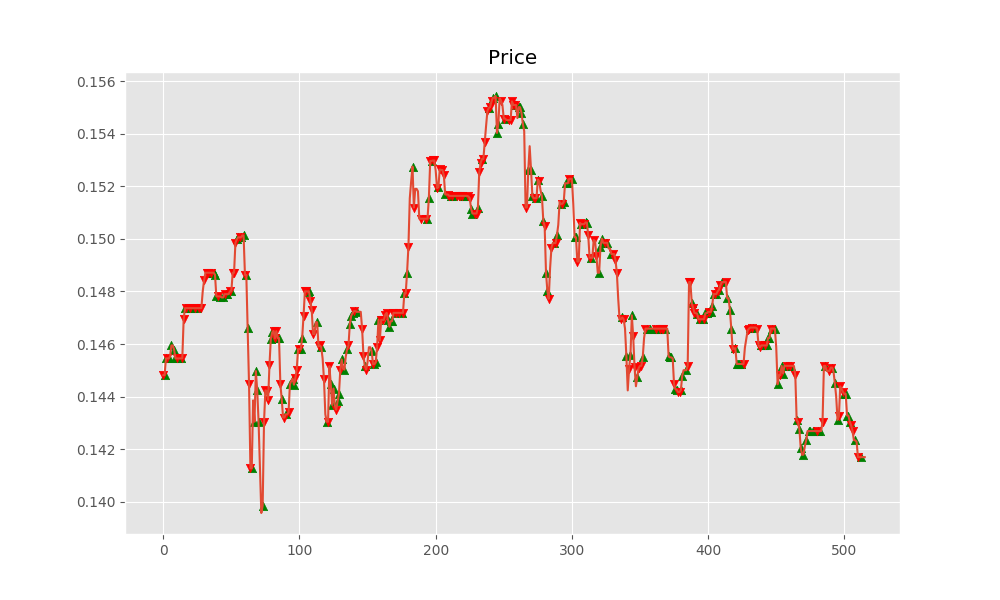
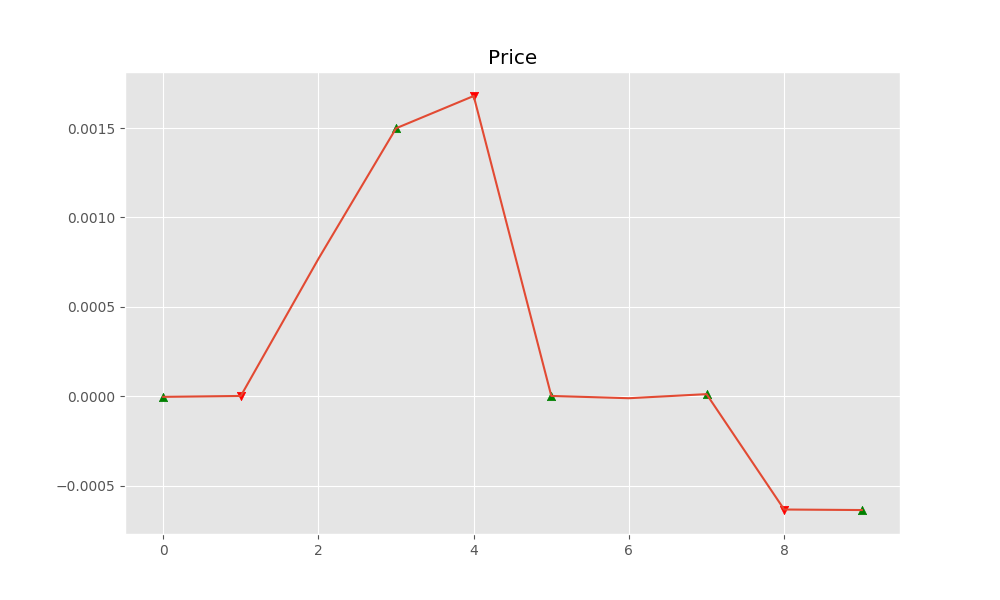
update some prints, add log_returns

diff --git a/trade_gym/envs/trade_env.py b/trade_gym/envs/trade_env.py
@@ -2,12 +2,13 @@ import os
 
 import gym
 import matplotlib.pyplot as plt
-plt.style.use('ggplot')
 import numpy as np
 import pandas as pd
 import tensorflow as tf
 from gym import spaces
+from utils import print_data_info
 
+plt.style.use('ggplot')
 
 class TradeEnv(gym.Env):
     '''Trading environment. 
@@ -48,11 +49,11 @@ class TradeEnv(gym.Env):
         for preprocess in preprocesses:
             if preprocess == 'None':
                 pass
-            elif preprocess == 'MinMax':
+            elif preprocess == 'MinMax':            # normalized 0 to 1, wouldn't recommend
                 self.data = self.preprocess_MinMax()
-            elif preprocess == 'renko':
+            elif preprocess == 'renko':             # blocks
                 self.data = self.preprocess_renko()
-            elif preprocess == 'log_transform':
+            elif preprocess == 'log_transform':     # log return values
                 self.data = self.preprocess_log_transform()
             elif preprocess == 'autoencode':
                 self.data = self.preprocess_autoencode()
@@ -60,13 +61,15 @@ class TradeEnv(gym.Env):
         if self.observation_space is None: # not yet set by preprocessing
             self.observation_space = dict(type = 'float', shape = [self.window, self.data.shape[1]])
             #self.observation_space = spaces.Box(low = 0, high = 10000, shape = (self.window, self.data.shape[1]))
-            print(self.data.head(n=5))
+        
+        # data should be loaded and processed
+        print_data_info(self.data)
 
     def reset(self):
-        self.cash = 1e6 # 1,000,000 to start
+        self.cash   = 1e6 # 1,000,000 to start
         self.equity = 0
-        self.steps = self.window
         self.equity = 0
+        self.steps  = self.window
         self.past_actions = []
 
         return self.get_next_state()
@@ -83,7 +86,11 @@ class TradeEnv(gym.Env):
         return NotImplementedError
 
     def preprocess_log_transform(self):
-        return NotImplementedError
+        for column in self.data.columns:
+            self.data[column]    = np.log(self.data[column]/self.data[column].shift(1))
+            self.data[column][self.window] = 0
+
+        return self.data
 
     def preprocess_autoencode(self):
         from keras.models import load_model
@@ -110,7 +117,7 @@ class TradeEnv(gym.Env):
             pass
 
         # some datasets are fucking big and...well bc we aren't learning well right now, it makes troubleshooting difficult
-        df = df[0:10000]
+        df = df[0:100000]
 
         if self.use_market_profile: 
             self.mp = MarketProfile(df, mode = 'tpo')
@@ -125,14 +132,15 @@ class TradeEnv(gym.Env):
                     df.ix[i+self.window, key] = value
 
         try: 
-            df = df.iloc[self.window:]
-            df.fillna(method = 'ffill', inplace = True)
             df.drop(['Date', 'Time'], axis = 1, inplace = True)
         except AttributeError:
             pass
 
-        print('Data loaded, shape {}.'.format(df.shape))
-        print('Number of null values after dropping: {}.'.format(df.isnull().sum().sum()))
+        for column in df:
+            df[column][1:] = pd.to_numeric(df[column][1:])
+
+        df = df.iloc[self.window:]
+        df.fillna(method = 'ffill', inplace = True)
         return df
 
     def get_current_price(self):

diff --git a/main.py b/main.py
@@ -1,6 +1,10 @@
 import argparse
 import json
 
+# get rid of all the tensorflow errors with this v1/v2 stuff
+import tensorflow as tf
+tf.compat.v1.logging.set_verbosity(tf.compat.v1.logging.ERROR)
+
 import gym
 import numpy as np
 from tensorforce.agents import Agent
@@ -50,6 +54,10 @@ def main(args):
                             )
     )
 
+    print('*'*60)
+    print('\n')
+    print('Training for {} episodes...'.format(args.episodes))
+
     runner = Runner(agent = agent, environment = env)
 
     def episode_finished(r):
@@ -77,14 +85,14 @@ def main(args):
         if d:
             break
     
-    plot(collectables, 0.001) # plot only .1% of one episode
+    plot(collectables, 0.01) # plot only .1% of one episode
 
 if __name__ == '__main__':
     parser = argparse.ArgumentParser(description='Process command line args...')
 
-    parser.add_argument('-w', '--window', help = 'number of time-steps to use in each state', default = 50)
-    parser.add_argument('-p', '--preprocess', help = 'how to preprocess data. options: minMax, ..', default = 'MinMax')
-    parser.add_argument('-e', '--episodes', help = 'number of episodes to train for', default = 10)
+    parser.add_argument('-w', '--window', type = int, help = 'number of time-steps to use in each state', default = 50)
+    parser.add_argument('-p', '--preprocess', help = 'how to preprocess data. options: minMax, ..', default = 'log_transform')
+    parser.add_argument('-e', '--episodes', type = int, help = 'number of episodes to train for', default = 10)
     parser.add_argument('-a', '--agent', 
         help = 'agent config, examples in configs/agents/ taken from TensorForce at https://github.com/tensorforce/tensorforce/tree/major-revision/examples/configs', 
         default = 'configs/agents/dqn.json')

diff --git a/utils.py b/utils.py
@@ -27,3 +27,19 @@ def plot(collectables, portion):
     # save plot
     plt.savefig('imgs/BTC')
     plt.show()
+
+def print_data_info(data):
+    '''
+    pretty print method for training data/info, 
+    easy way to confirm things loaded correctly
+    '''
+
+    print('*'*60)
+    print('\n')
+    print('Data loaded, shape {}.'.format(data.shape) + ' Data columns: {}.'.format(data.columns))
+    print('Number of null values after dropping: {}. (If this is >1, reward will be NaN.)'.format(data.isnull().sum().sum()))
+    print('\n')
+    print(data.head(n=5))
+    print('\n')
+    print('*'*60)
+    
